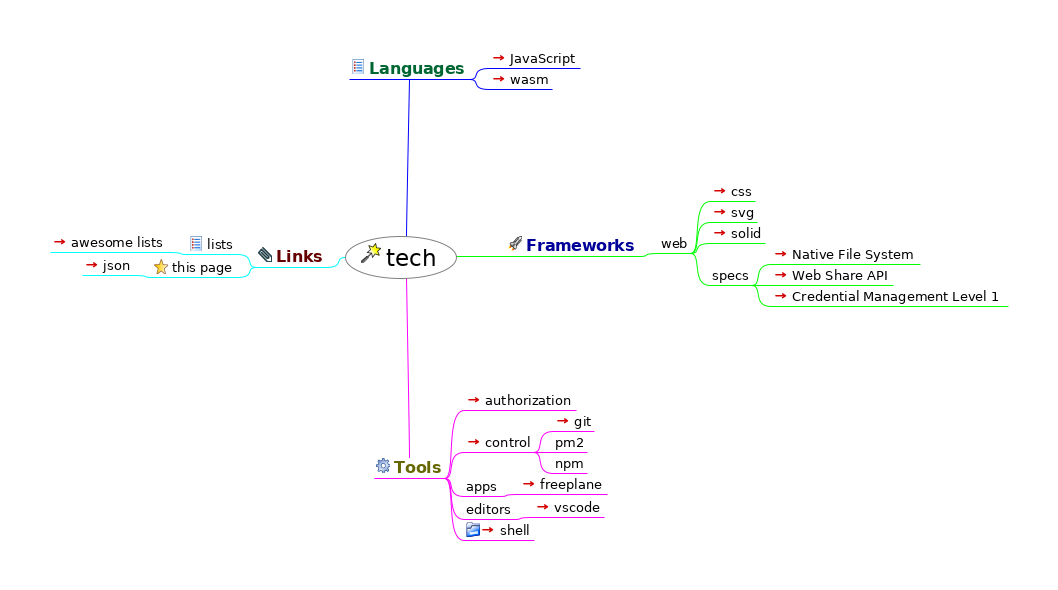
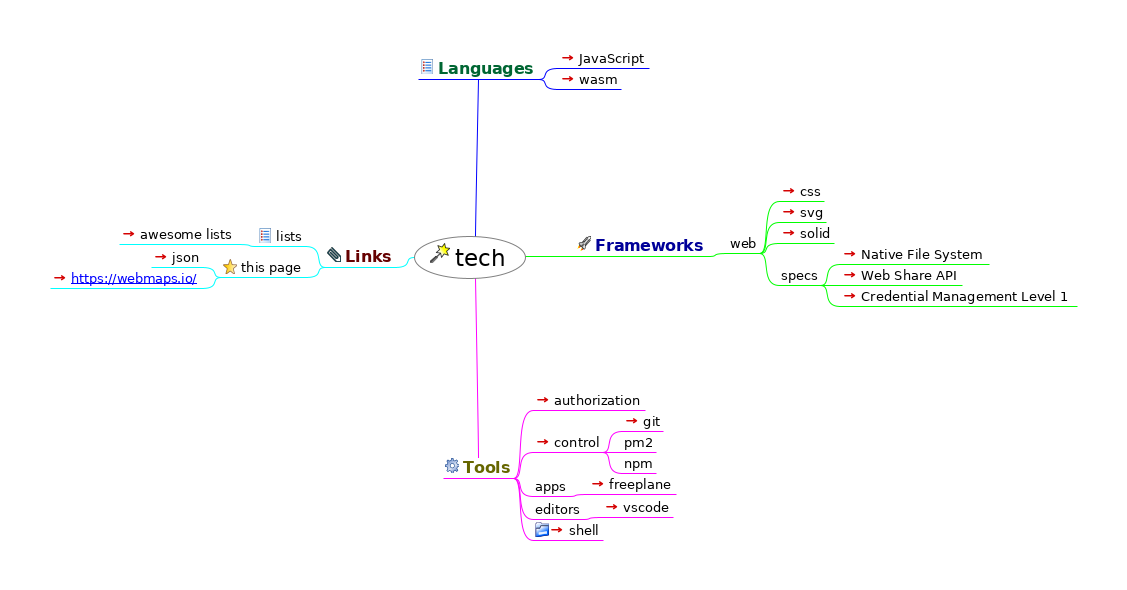
Add webmaps

Changed region(s): [[0.0624, 0.3051, 0.9357, 0.5186], [0.3431, 0.6712, 0.5926, 0.9153], [0.3119, 0.0915, 0.5926, 0.1525]]

diff --git a/index.html b/index.html
@@ -23,36 +23,39 @@
                    };
                };
           
-          --></script></head><body><h1>tech</h1><div style="width:96%;  padding:2%;  margin-bottom:10px;  border: 0px;  text-align:center;  vertical-align:center;"><img src="index.html_files/image.png" style="margin-bottom:10px; &#9;border: 0px; &#9;text-align:center; &#9;vertical-align:center;" alt="Imagemap" usemap="#fm_imagemap" /></div><map name="fm_imagemap" id="fm_imagemap"><area shape="rect" href="#FMID_237352286FM" alt="tech" title="tech" coords="345,236,457,279" />
-<area shape="rect" href="#FMID_176155545FM" alt="Languages" title="Languages" coords="349,59,470,79" />
-<area shape="rect" href="../JavaScript/index.html" alt="JavaScript" title="JavaScript" coords="489,50,580,68" />
-<area shape="rect" href="languages/wasm/index.html" alt="wasm" title="wasm" coords="489,71,552,89" />
-<area shape="rect" href="#FMID_527312312FM" alt="Frameworks" title="Frameworks" coords="506,236,640,256" />
-<area shape="rect" href="#FMID_532002583FM" alt="web" title="web" coords="659,235,691,253" />
-<area shape="rect" href="css.html" alt="css" title="css" coords="710,183,755,201" />
-<area shape="rect" href="https://www.w3schools.com/graphics/svg_reference.asp" alt="svg" title="svg" coords="710,204,757,222" />
-<area shape="rect" href="../solid/index.html" alt="solid" title="solid" coords="710,225,765,243" />
-<area shape="rect" href="#FMID_1682894723FM" alt="specs" title="specs" coords="710,267,752,285" />
-<area shape="rect" href="https://wicg.github.io/native-file-system/" alt="Native File System" title="Native File System" coords="771,246,920,264" />
-<area shape="rect" href="https://w3c.github.io/web-share/" alt="Web Share API" title="Web Share API" coords="771,267,893,285" />
-<area shape="rect" href="https://www.w3.org/TR/credential-management-1/" alt="Credential Management Level 1" title="Credential Management Level 1" coords="771,288,1008,306" />
-<area shape="rect" href="#FMID_1810859973FM" alt="Tools" title="Tools" coords="374,458,445,478" />
-<area shape="rect" href="authorization/index.html" alt="authorization" title="authorization" coords="464,392,576,410" />
-<area shape="rect" href="control/index.html" alt="control" title="control" coords="464,434,534,452" />
-<area shape="rect" href="control/git.html" alt="git" title="git" coords="553,413,594,431" />
-<area shape="rect" href="#FMID_901084502FM" alt="pm2" title="pm2" coords="553,434,587,452" />
-<area shape="rect" href="#FMID_677687213FM" alt="npm" title="npm" coords="553,455,587,473" />
-<area shape="rect" href="#FMID_453742222FM" alt="apps" title="apps" coords="464,478,500,496" />
-<area shape="rect" href="freeplane.html" alt="freeplane" title="freeplane" coords="519,476,607,494" />
-<area shape="rect" href="#FMID_1019017499FM" alt="editors" title="editors" coords="464,501,514,519" />
-<area shape="rect" href="https://code.visualstudio.com/" alt="vscode" title="vscode" coords="533,499,604,517" />
-<area shape="rect" href="shell/index.html" alt="shell" title="shell" coords="464,522,534,540" />
-<area shape="rect" href="#FMID_777477932FM" alt="Links" title="Links" coords="256,247,326,267" />
-<area shape="rect" href="#FMID_21985093FM" alt="lists" title="lists" coords="187,236,237,254" />
-<area shape="rect" href="https://getawesomeness.herokuapp.com/get/js" alt="awesome lists" title="awesome lists" coords="50,234,168,252" />
-<area shape="rect" href="#FMID_117142409FM" alt="this page" title="this page" coords="152,259,237,277" />
-<area shape="rect" href="index.json" alt="json" title="json" coords="82,257,133,275" />
+          --></script></head><body><h1>tech</h1><div style="width:96%;  padding:2%;  margin-bottom:10px;  border: 0px;  text-align:center;  vertical-align:center;"><img src="index.html_files/image.png" style="margin-bottom:10px; &#9;border: 0px; &#9;text-align:center; &#9;vertical-align:center;" alt="Imagemap" usemap="#fm_imagemap" /></div><map name="fm_imagemap" id="fm_imagemap"><area shape="rect" href="#FMID_237352286FM" alt="tech" title="tech" coords="414,236,526,279" />
+<area shape="rect" href="#FMID_176155545FM" alt="Languages" title="Languages" coords="418,59,539,79" />
+<area shape="rect" href="../JavaScript/index.html" alt="JavaScript" title="JavaScript" coords="558,50,649,68" />
+<area shape="rect" href="languages/wasm/index.html" alt="wasm" title="wasm" coords="558,71,621,89" />
+<area shape="rect" href="#FMID_527312312FM" alt="Frameworks" title="Frameworks" coords="575,236,709,256" />
+<area shape="rect" href="#FMID_532002583FM" alt="web" title="web" coords="728,235,760,253" />
+<area shape="rect" href="css.html" alt="css" title="css" coords="779,183,824,201" />
+<area shape="rect" href="https://www.w3schools.com/graphics/svg_reference.asp" alt="svg" title="svg" coords="779,204,826,222" />
+<area shape="rect" href="../solid/index.html" alt="solid" title="solid" coords="779,225,834,243" />
+<area shape="rect" href="#FMID_1682894723FM" alt="specs" title="specs" coords="779,267,821,285" />
+<area shape="rect" href="https://wicg.github.io/native-file-system/" alt="Native File System" title="Native File System" coords="840,246,989,264" />
+<area shape="rect" href="https://w3c.github.io/web-share/" alt="Web Share API" title="Web Share API" coords="840,267,962,285" />
+<area shape="rect" href="https://www.w3.org/TR/credential-management-1/" alt="Credential Management Level 1" title="Credential Management Level 1" coords="840,288,1077,306" />
+<area shape="rect" href="#FMID_1810859973FM" alt="Tools" title="Tools" coords="443,458,514,478" />
+<area shape="rect" href="authorization/index.html" alt="authorization" title="authorization" coords="533,392,645,410" />
+<area shape="rect" href="control/index.html" alt="control" title="control" coords="533,434,603,452" />
+<area shape="rect" href="control/git.html" alt="git" title="git" coords="622,413,663,431" />
+<area shape="rect" href="#FMID_901084502FM" alt="pm2" title="pm2" coords="622,434,656,452" />
+<area shape="rect" href="#FMID_677687213FM" alt="npm" title="npm" coords="622,455,656,473" />
+<area shape="rect" href="#FMID_453742222FM" alt="apps" title="apps" coords="533,478,569,496" />
+<area shape="rect" href="freeplane.html" alt="freeplane" title="freeplane" coords="588,476,676,494" />
+<area shape="rect" href="#FMID_1019017499FM" alt="editors" title="editors" coords="533,501,583,519" />
+<area shape="rect" href="https://code.visualstudio.com/" alt="vscode" title="vscode" coords="602,499,673,517" />
+<area shape="rect" href="shell/index.html" alt="shell" title="shell" coords="533,522,603,540" />
+<area shape="rect" href="#FMID_777477932FM" alt="Links" title="Links" coords="325,247,395,267" />
+<area shape="rect" href="#FMID_21985093FM" alt="lists" title="lists" coords="256,228,306,246" />
+<area shape="rect" href="https://getawesomeness.herokuapp.com/get/js" alt="awesome lists" title="awesome lists" coords="119,226,237,244" />
+<area shape="rect" href="#FMID_117142409FM" alt="this page" title="this page" coords="221,259,306,277" />
+<area shape="rect" href="index.json" alt="json" title="json" coords="151,249,202,267" />
+<area shape="rect" href="https://webmaps.io/" alt="https://webmaps.io/ " title="https://webmaps.io/ " coords="50,270,202,288" />
 </map>
 
-<div class="node"><img src="index.html_files/hide.png" class="hideshow" alt="hide" onClick="toggle(&quot;N65543&quot;)" id="imgN65543" /><img src="index.html_files/icons/wizard.svg" alt="wizard" /> <a id="FMID_237352286FM" /><div class="nodecontent" style="color:#000000;font-size:150%;">tech</div><div class="content" id="N65543"><div class="node"><img src="index.html_files/hide.png" class="hideshow" alt="hide" onClick="toggle(&quot;N66444&quot;)" id="imgN66444" /><img src="index.html_files/icons/list.svg" alt="list" /> <a id="FMID_176155545FM" /><div class="nodecontent" style="color:#006633;font-size:100%;font-weight:bold;">Languages</div><div class="content" id="N66444"><div class="node"><img src="index.html_files/leaf.png" class="hideshow" alt="leaf" /><a id="FMID_546595456FM" /><div class="nodecontent" style="color:#000000;font-size:83%;"><a href="../JavaScript/index.html">JavaScript</a> <a href="../JavaScript/index.html"><img src="index.html_files/ilink.png" alt="User Link" style="border-width:0" /></a></div></div><div class="node"><img src="index.html_files/leaf.png" class="hideshow" alt="leaf" /><a id="FMID_1992588014FM" /><div class="nodecontent" style="color:#000000;font-size:83%;"><a href="languages/wasm/index.html">wasm</a> <a href="languages/wasm/index.html"><img src="index.html_files/ilink.png" alt="User Link" style="border-width:0" /></a></div></div></div></div><div class="node"><img src="index.html_files/hide.png" class="hideshow" alt="hide" onClick="toggle(&quot;N66562&quot;)" id="imgN66562" /><img src="index.html_files/icons/launch.svg" alt="launch" /> <a id="FMID_527312312FM" /><div class="nodecontent" style="color:#000099;font-size:100%;font-weight:bold;">Frameworks</div><div class="content" id="N66562"><div class="node"><img src="index.html_files/hide.png" class="hideshow" alt="hide" onClick="toggle(&quot;N66605&quot;)" id="imgN66605" /><a id="FMID_532002583FM" /><div class="nodecontent" style="color:#000000;font-size:83%;">web</div><div class="content" id="N66605"><div class="node"><img src="index.html_files/leaf.png" class="hideshow" alt="leaf" /><a id="FMID_1846113849FM" /><div class="nodecontent" style="color:#000000;font-size:83%;"><a href="css.html">css</a> <a href="css.html"><img src="index.html_files/ilink.png" alt="User Link" style="border-width:0" /></a></div></div><div class="node"><img src="index.html_files/leaf.png" class="hideshow" alt="leaf" /><a id="FMID_428457042FM" /><div class="nodecontent" style="color:#000000;font-size:83%;"><a href="https://www.w3schools.com/graphics/svg_reference.asp">svg</a> <a href="https://www.w3schools.com/graphics/svg_reference.asp"><img src="index.html_files/ilink.png" alt="User Link" style="border-width:0" /></a></div></div><div class="node"><img src="index.html_files/leaf.png" class="hideshow" alt="leaf" /><a id="FMID_1070141955FM" /><div class="nodecontent" style="color:#000000;font-size:83%;"><a href="../solid/index.html">solid</a> <a href="../solid/index.html"><img src="index.html_files/ilink.png" alt="User Link" style="border-width:0" /></a></div></div><div class="node"><img src="index.html_files/hide.png" class="hideshow" alt="hide" onClick="toggle(&quot;N66751&quot;)" id="imgN66751" /><a id="FMID_1682894723FM" /><div class="nodecontent" style="color:#000000;font-size:83%;">specs</div><div class="content" id="N66751"><div class="node"><img src="index.html_files/leaf.png" class="hideshow" alt="leaf" /><a id="FMID_1944964332FM" /><div class="nodecontent" style="color:#000000;font-size:83%;"><a href="https://wicg.github.io/native-file-system/">Native File System</a> <a href="https://wicg.github.io/native-file-system/"><img src="index.html_files/ilink.png" alt="User Link" style="border-width:0" /></a></div></div><div class="node"><img src="index.html_files/leaf.png" class="hideshow" alt="leaf" /><a id="FMID_131281787FM" /><div class="nodecontent" style="color:#000000;font-size:83%;"><a href="https://w3c.github.io/web-share/">Web Share API</a> <a href="https://w3c.github.io/web-share/"><img src="index.html_files/ilink.png" alt="User Link" style="border-width:0" /></a></div></div><div class="node"><img src="index.html_files/leaf.png" class="hideshow" alt="leaf" /><a id="FMID_1415592675FM" /><div class="nodecontent" style="color:#000000;font-size:83%;"><a href="https://www.w3.org/TR/credential-management-1/">Credential Management Level 1</a> <a href="https://www.w3.org/TR/credential-management-1/"><img src="index.html_files/ilink.png" alt="User Link" style="border-width:0" /></a></div></div></div></div></div></div></div></div><div class="node"><img src="index.html_files/hide.png" class="hideshow" alt="hide" onClick="toggle(&quot;N66900&quot;)" id="imgN66900" /><img src="index.html_files/icons/executable.svg" alt="executable" /> <a id="FMID_1810859973FM" /><div class="nodecontent" style="color:#666600;font-size:100%;font-weight:bold;">Tools</div><div class="content" id="N66900"><div class="node"><img src="index.html_files/leaf.png" class="hideshow" alt="leaf" /><a id="FMID_1568925180FM" /><div class="nodecontent" style="color:#000000;font-size:83%;"><a href="authorization/index.html">authorization</a> <a href="authorization/index.html"><img src="index.html_files/ilink.png" alt="User Link" style="border-width:0" /></a></div></div><div class="node"><img src="index.html_files/hide.png" class="hideshow" alt="hide" onClick="toggle(&quot;N66980&quot;)" id="imgN66980" /><a id="FMID_1041005677FM" /><div class="nodecontent" style="color:#000000;font-size:83%;"><a href="control/index.html">control</a> <a href="control/index.html"><img src="index.html_files/ilink.png" alt="User Link" style="border-width:0" /></a></div><div class="content" id="N66980"><div class="node"><img src="index.html_files/leaf.png" class="hideshow" alt="leaf" /><a id="FMID_1536156446FM" /><div class="nodecontent" style="color:#000000;font-size:83%;"><a href="control/git.html">git</a> <a href="control/git.html"><img src="index.html_files/ilink.png" alt="User Link" style="border-width:0" /></a></div></div><div class="node"><img src="index.html_files/leaf.png" class="hideshow" alt="leaf" /><a id="FMID_901084502FM" /><div class="nodecontent" style="color:#000000;font-size:83%;">pm2</div></div><div class="node"><img src="index.html_files/leaf.png" class="hideshow" alt="leaf" /><a id="FMID_677687213FM" /><div class="nodecontent" style="color:#000000;font-size:83%;">npm</div></div></div></div><div class="node"><img src="index.html_files/hide.png" class="hideshow" alt="hide" onClick="toggle(&quot;N67126&quot;)" id="imgN67126" /><a id="FMID_453742222FM" /><div class="nodecontent" style="color:#000000;font-size:83%;">apps</div><div class="content" id="N67126"><div class="node"><img src="index.html_files/leaf.png" class="hideshow" alt="leaf" /><a id="FMID_756649779FM" /><div class="nodecontent" style="color:#000000;font-size:83%;"><a href="freeplane.html">freeplane</a> <a href="freeplane.html"><img src="index.html_files/ilink.png" alt="User Link" style="border-width:0" /></a></div></div></div></div><div class="node"><img src="index.html_files/hide.png" class="hideshow" alt="hide" onClick="toggle(&quot;N67199&quot;)" id="imgN67199" /><a id="FMID_1019017499FM" /><div class="nodecontent" style="color:#000000;font-size:83%;">editors</div><div class="content" id="N67199"><div class="node"><img src="index.html_files/leaf.png" class="hideshow" alt="leaf" /><a id="FMID_847676993FM" /><div class="nodecontent" style="color:#000000;font-size:83%;"><a href="https://code.visualstudio.com/">vscode</a> <a href="https://code.visualstudio.com/"><img src="index.html_files/ilink.png" alt="User Link" style="border-width:0" /></a></div></div></div></div><div class="node"><img src="index.html_files/leaf.png" class="hideshow" alt="leaf" /><img src="index.html_files/icons/folder.svg" alt="folder" /> <a id="FMID_1968717210FM" /><div class="nodecontent" style="color:#000000;font-size:83%;"><a href="shell/index.html">shell</a> <a href="shell/index.html"><img src="index.html_files/ilink.png" alt="User Link" style="border-width:0" /></a></div></div></div></div><div class="node"><img src="index.html_files/hide.png" class="hideshow" alt="hide" onClick="toggle(&quot;N67315&quot;)" id="imgN67315" /><img src="index.html_files/icons/attach.svg" alt="attach" /> <a id="FMID_777477932FM" /><div class="nodecontent" style="color:#660000;font-size:100%;font-weight:bold;">Links</div><div class="content" id="N67315"><div class="node"><img src="index.html_files/hide.png" class="hideshow" alt="hide" onClick="toggle(&quot;N67356&quot;)" id="imgN67356" /><img src="index.html_files/icons/list.svg" alt="list" /> <a id="FMID_21985093FM" /><div class="nodecontent" style="color:#000000;font-size:83%;">lists</div><div class="content" id="N67356"><div class="node"><img src="index.html_files/leaf.png" class="hideshow" alt="leaf" /><a id="FMID_588856980FM" /><div class="nodecontent" style="color:#000000;font-size:83%;"><a href="https://getawesomeness.herokuapp.com/get/js">awesome lists</a> <a href="https://getawesomeness.herokuapp.com/get/js"><img src="index.html_files/ilink.png" alt="User Link" style="border-width:0" /></a></div></div></div></div><div class="node"><img src="index.html_files/hide.png" class="hideshow" alt="hide" onClick="toggle(&quot;N67434&quot;)" id="imgN67434" /><img src="index.html_files/icons/bookmark.svg" alt="bookmark" /> <a id="FMID_117142409FM" /><div class="nodecontent" style="color:#000000;font-size:83%;">this page</div><div class="content" id="N67434"><div class="node"><img src="index.html_files/leaf.png" class="hideshow" alt="leaf" /><a id="FMID_485260235FM" /><div class="nodecontent" style="color:#000000;font-size:83%;"><a href="index.json">json</a> <a href="index.json"><img src="index.html_files/ilink.png" alt="User Link" style="border-width:0" /></a></div></div></div></div></div></div></div></div>
+<div class="node"><img src="index.html_files/hide.png" class="hideshow" alt="hide" onClick="toggle(&quot;N65543&quot;)" id="imgN65543" /><img src="index.html_files/icons/wizard.svg" alt="wizard" /> <a id="FMID_237352286FM" /><div class="nodecontent" style="color:#000000;font-size:150%;">tech</div><div class="content" id="N65543"><div class="node"><img src="index.html_files/hide.png" class="hideshow" alt="hide" onClick="toggle(&quot;N66444&quot;)" id="imgN66444" /><img src="index.html_files/icons/list.svg" alt="list" /> <a id="FMID_176155545FM" /><div class="nodecontent" style="color:#006633;font-size:100%;font-weight:bold;">Languages</div><div class="content" id="N66444"><div class="node"><img src="index.html_files/leaf.png" class="hideshow" alt="leaf" /><a id="FMID_546595456FM" /><div class="nodecontent" style="color:#000000;font-size:83%;"><a href="../JavaScript/index.html">JavaScript</a> <a href="../JavaScript/index.html"><img src="index.html_files/ilink.png" alt="User Link" style="border-width:0" /></a></div></div><div class="node"><img src="index.html_files/leaf.png" class="hideshow" alt="leaf" /><a id="FMID_1992588014FM" /><div class="nodecontent" style="color:#000000;font-size:83%;"><a href="languages/wasm/index.html">wasm</a> <a href="languages/wasm/index.html"><img src="index.html_files/ilink.png" alt="User Link" style="border-width:0" /></a></div></div></div></div><div class="node"><img src="index.html_files/hide.png" class="hideshow" alt="hide" onClick="toggle(&quot;N66562&quot;)" id="imgN66562" /><img src="index.html_files/icons/launch.svg" alt="launch" /> <a id="FMID_527312312FM" /><div class="nodecontent" style="color:#000099;font-size:100%;font-weight:bold;">Frameworks</div><div class="content" id="N66562"><div class="node"><img src="index.html_files/hide.png" class="hideshow" alt="hide" onClick="toggle(&quot;N66605&quot;)" id="imgN66605" /><a id="FMID_532002583FM" /><div class="nodecontent" style="color:#000000;font-size:83%;">web</div><div class="content" id="N66605"><div class="node"><img src="index.html_files/leaf.png" class="hideshow" alt="leaf" /><a id="FMID_1846113849FM" /><div class="nodecontent" style="color:#000000;font-size:83%;"><a href="css.html">css</a> <a href="css.html"><img src="index.html_files/ilink.png" alt="User Link" style="border-width:0" /></a></div></div><div class="node"><img src="index.html_files/leaf.png" class="hideshow" alt="leaf" /><a id="FMID_428457042FM" /><div class="nodecontent" style="color:#000000;font-size:83%;"><a href="https://www.w3schools.com/graphics/svg_reference.asp">svg</a> <a href="https://www.w3schools.com/graphics/svg_reference.asp"><img src="index.html_files/ilink.png" alt="User Link" style="border-width:0" /></a></div></div><div class="node"><img src="index.html_files/leaf.png" class="hideshow" alt="leaf" /><a id="FMID_1070141955FM" /><div class="nodecontent" style="color:#000000;font-size:83%;"><a href="../solid/index.html">solid</a> <a href="../solid/index.html"><img src="index.html_files/ilink.png" alt="User Link" style="border-width:0" /></a></div></div><div class="node"><img src="index.html_files/hide.png" class="hideshow" alt="hide" onClick="toggle(&quot;N66751&quot;)" id="imgN66751" /><a id="FMID_1682894723FM" /><div class="nodecontent" style="color:#000000;font-size:83%;">specs</div><div class="content" id="N66751"><div class="node"><img src="index.html_files/leaf.png" class="hideshow" alt="leaf" /><a id="FMID_1944964332FM" /><div class="nodecontent" style="color:#000000;font-size:83%;"><a href="https://wicg.github.io/native-file-system/">Native File System</a> <a href="https://wicg.github.io/native-file-system/"><img src="index.html_files/ilink.png" alt="User Link" style="border-width:0" /></a></div></div><div class="node"><img src="index.html_files/leaf.png" class="hideshow" alt="leaf" /><a id="FMID_131281787FM" /><div class="nodecontent" style="color:#000000;font-size:83%;"><a href="https://w3c.github.io/web-share/">Web Share API</a> <a href="https://w3c.github.io/web-share/"><img src="index.html_files/ilink.png" alt="User Link" style="border-width:0" /></a></div></div><div class="node"><img src="index.html_files/leaf.png" class="hideshow" alt="leaf" /><a id="FMID_1415592675FM" /><div class="nodecontent" style="color:#000000;font-size:83%;"><a href="https://www.w3.org/TR/credential-management-1/">Credential Management Level 1</a> <a href="https://www.w3.org/TR/credential-management-1/"><img src="index.html_files/ilink.png" alt="User Link" style="border-width:0" /></a></div></div></div></div></div></div></div></div><div class="node"><img src="index.html_files/hide.png" class="hideshow" alt="hide" onClick="toggle(&quot;N66900&quot;)" id="imgN66900" /><img src="index.html_files/icons/executable.svg" alt="executable" /> <a id="FMID_1810859973FM" /><div class="nodecontent" style="color:#666600;font-size:100%;font-weight:bold;">Tools</div><div class="content" id="N66900"><div class="node"><img src="index.html_files/leaf.png" class="hideshow" alt="leaf" /><a id="FMID_1568925180FM" /><div class="nodecontent" style="color:#000000;font-size:83%;"><a href="authorization/index.html">authorization</a> <a href="authorization/index.html"><img src="index.html_files/ilink.png" alt="User Link" style="border-width:0" /></a></div></div><div class="node"><img src="index.html_files/hide.png" class="hideshow" alt="hide" onClick="toggle(&quot;N66980&quot;)" id="imgN66980" /><a id="FMID_1041005677FM" /><div class="nodecontent" style="color:#000000;font-size:83%;"><a href="control/index.html">control</a> <a href="control/index.html"><img src="index.html_files/ilink.png" alt="User Link" style="border-width:0" /></a></div><div class="content" id="N66980"><div class="node"><img src="index.html_files/leaf.png" class="hideshow" alt="leaf" /><a id="FMID_1536156446FM" /><div class="nodecontent" style="color:#000000;font-size:83%;"><a href="control/git.html">git</a> <a href="control/git.html"><img src="index.html_files/ilink.png" alt="User Link" style="border-width:0" /></a></div></div><div class="node"><img src="index.html_files/leaf.png" class="hideshow" alt="leaf" /><a id="FMID_901084502FM" /><div class="nodecontent" style="color:#000000;font-size:83%;">pm2</div></div><div class="node"><img src="index.html_files/leaf.png" class="hideshow" alt="leaf" /><a id="FMID_677687213FM" /><div class="nodecontent" style="color:#000000;font-size:83%;">npm</div></div></div></div><div class="node"><img src="index.html_files/hide.png" class="hideshow" alt="hide" onClick="toggle(&quot;N67126&quot;)" id="imgN67126" /><a id="FMID_453742222FM" /><div class="nodecontent" style="color:#000000;font-size:83%;">apps</div><div class="content" id="N67126"><div class="node"><img src="index.html_files/leaf.png" class="hideshow" alt="leaf" /><a id="FMID_756649779FM" /><div class="nodecontent" style="color:#000000;font-size:83%;"><a href="freeplane.html">freeplane</a> <a href="freeplane.html"><img src="index.html_files/ilink.png" alt="User Link" style="border-width:0" /></a></div></div></div></div><div class="node"><img src="index.html_files/hide.png" class="hideshow" alt="hide" onClick="toggle(&quot;N67199&quot;)" id="imgN67199" /><a id="FMID_1019017499FM" /><div class="nodecontent" style="color:#000000;font-size:83%;">editors</div><div class="content" id="N67199"><div class="node"><img src="index.html_files/leaf.png" class="hideshow" alt="leaf" /><a id="FMID_847676993FM" /><div class="nodecontent" style="color:#000000;font-size:83%;"><a href="https://code.visualstudio.com/">vscode</a> <a href="https://code.visualstudio.com/"><img src="index.html_files/ilink.png" alt="User Link" style="border-width:0" /></a></div></div></div></div><div class="node"><img src="index.html_files/leaf.png" class="hideshow" alt="leaf" /><img src="index.html_files/icons/folder.svg" alt="folder" /> <a id="FMID_1968717210FM" /><div class="nodecontent" style="color:#000000;font-size:83%;"><a href="shell/index.html">shell</a> <a href="shell/index.html"><img src="index.html_files/ilink.png" alt="User Link" style="border-width:0" /></a></div></div></div></div><div class="node"><img src="index.html_files/hide.png" class="hideshow" alt="hide" onClick="toggle(&quot;N67315&quot;)" id="imgN67315" /><img src="index.html_files/icons/attach.svg" alt="attach" /> <a id="FMID_777477932FM" /><div class="nodecontent" style="color:#660000;font-size:100%;font-weight:bold;">Links</div><div class="content" id="N67315"><div class="node"><img src="index.html_files/hide.png" class="hideshow" alt="hide" onClick="toggle(&quot;N67356&quot;)" id="imgN67356" /><img src="index.html_files/icons/list.svg" alt="list" /> <a id="FMID_21985093FM" /><div class="nodecontent" style="color:#000000;font-size:83%;">lists</div><div class="content" id="N67356"><div class="node"><img src="index.html_files/leaf.png" class="hideshow" alt="leaf" /><a id="FMID_588856980FM" /><div class="nodecontent" style="color:#000000;font-size:83%;"><a href="https://getawesomeness.herokuapp.com/get/js">awesome lists</a> <a href="https://getawesomeness.herokuapp.com/get/js"><img src="index.html_files/ilink.png" alt="User Link" style="border-width:0" /></a></div></div></div></div><div class="node"><img src="index.html_files/hide.png" class="hideshow" alt="hide" onClick="toggle(&quot;N67434&quot;)" id="imgN67434" /><img src="index.html_files/icons/bookmark.svg" alt="bookmark" /> <a id="FMID_117142409FM" /><div class="nodecontent" style="color:#000000;font-size:83%;">this page</div><div class="content" id="N67434"><div class="node"><img src="index.html_files/leaf.png" class="hideshow" alt="leaf" /><a id="FMID_485260235FM" /><div class="nodecontent" style="color:#000000;font-size:83%;"><a href="index.json">json</a> <a href="index.json"><img src="index.html_files/ilink.png" alt="User Link" style="border-width:0" /></a></div></div><div class="node"><img src="index.html_files/leaf.png" class="hideshow" alt="leaf" /><a id="FMID_1630439828FM" /><div class="nodecontent" style="color:#000000;font-size:83%;"><a href="https://webmaps.io/">
+    <a http-equiv="content-type" content="text/html; charset=utf-8" href="https://webmaps.io/">https://webmaps.io/</a> 
+  </a> <a href="https://webmaps.io/"><img src="index.html_files/ilink.png" alt="User Link" style="border-width:0" /></a></div></div></div></div></div></div></div></div>
 </body></html>

diff --git a/index.mm b/index.mm
@@ -118,6 +118,19 @@
 <node TEXT="this page" ID="ID_117142409" CREATED="1571731629320" MODIFIED="1572498680071">
 <icon BUILTIN="bookmark"/>
 <node TEXT="json" ID="ID_485260235" CREATED="1571731633357" MODIFIED="1571731648894" LINK="index.json"/>
+<node ID="ID_1630439828" CREATED="1573154702956" MODIFIED="1573154702956" LINK="https://webmaps.io/"><richcontent TYPE="NODE">
+
+<html>
+  <head>
+    
+  </head>
+  <body>
+    <a http-equiv="content-type" content="text/html; charset=utf-8" href="https://webmaps.io/">https://webmaps.io/</a> 
+  </body>
+</html>
+
+</richcontent>
+</node>
 </node>
 </node>
 </node>
